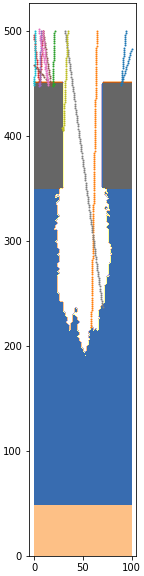
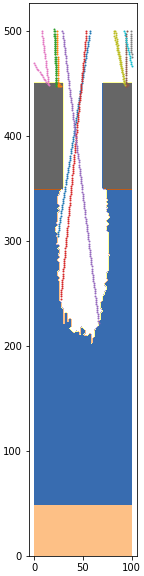
Added max_rflct in ops.py
1. Added max_rflct in ops.py
2. Import max_rflct in main.py
3. replace num_reflect with num_rflct

Changed region(s): [[0.2222, 0.0, 0.9722, 0.9688], [0.75, 0.4062, 0.7778, 0.4688]]

diff --git a/FeatMod2d_main.py b/FeatMod2d_main.py
@@ -4,11 +4,11 @@ Main program
 """
 
 import numpy as np
-import math
 import matplotlib.pyplot as plt
 import matplotlib.cm as cm
 
-from FeatMod2d_ops import width, height, res_x, res_z, num_ptcl, threshold
+from FeatMod2d_ops import width, height, res_x, res_z, num_ptcl, \
+                          threshold, max_rflct
 from FeatMod2d_mesh import MESHGRID
 from FeatMod2d_ptcl import PARTICLE
 from FeatMod2d_rflct import REFLECT
@@ -34,8 +34,8 @@ for k in range(num_ptcl):
 #    Arp.init_plot()
     record[k].append(Arp.posn.copy())
 
-    num_reflect = 0
-#    while imove_ptcl == 1 and num_reflect < 5:
+    num_rflct = 0
+#    while imove_ptcl == 1 and num_rflct < 5:
     for i in range(3000):
         # advance the ptcl by delta_L
         Arp.move_ptcl(delta_L)
@@ -54,13 +54,13 @@ for k in range(num_ptcl):
             rflct = REFLECT(Arp.name, mat_name, 1.0)
             prob = rflct.calc_prob()
             if rnd < prob:
-                if num_reflect > 3:
+                if num_rflct > max_rflct:
                     Arp.dead = 1
                     break
                 #call reflection
                 u1 = Arp.uvec
                 Arp.uvec = Arp_rflct.rotate_random(Arp.uvec)
-                num_reflect += 1
+                num_rflct += 1
                 u2 = Arp.uvec
     #            angle = np.arccos(np.clip(np.dot(-u1, u2), -1, 1))
     #            angle = angle/math.pi*180.0

diff --git a/FeatMod2d_ops.py b/FeatMod2d_ops.py
@@ -11,5 +11,9 @@ res_x, res_z = 2.0, 2.0 # nm
 # particle information
 num_ptcl = 10000
 
+# reflection information
+max_rflct = 5
+
 # reaction informaiton
 threshold = 0.5
+
